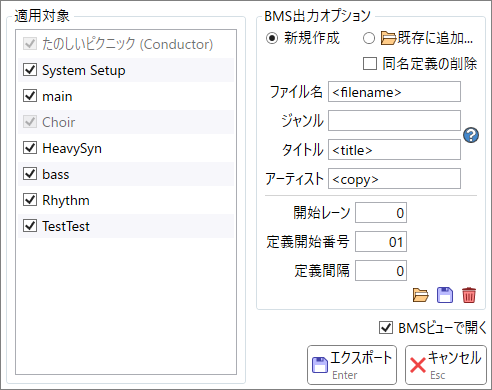
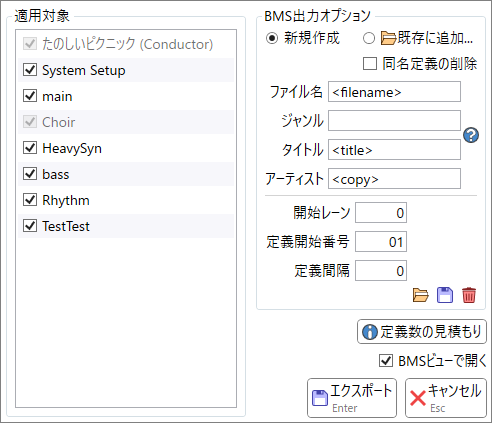
v0.7.32

diff --git a/docs/midi_bmsExport.html b/docs/midi_bmsExport.html
@@ -13,12 +13,23 @@
                 <p>
                     <a href="midi_pack.html">整理済みMIDIのデータ</a>と<a href="midi_slice.html">スライスされた音声データ</a>を使ってBMSファイルを作成する機能です。
                 </p>
+                <ul>
+                    <li>
+                        原則として、出力されるBMSの定義形式は<span class="script">ZZ</span>になります。総定義数が255以下でも<span class="script">FF</span>に変換されることはありません。
+                    </li>
+                    <li>
+                        総定義数が1296以上となる場合は<span class="script">zz</span>定義になり、その旨が警告として表示されます。
+                    </li>
+                    <li>
+                        総定義数が3844以上となる場合、超える分の定義は消失し、その旨が警告として表示されます。
+                    </li>
+                </ul>
             </div>
             <div class="stack">
                 <h2>説明</h2>
                 要素をクリックすると説明が表示されます。
                 <div class="image-map" src="img/midi_bmsExport.png" maps="
-                      5,  5,242,380, midi/bms_track.html, center;
+                      5,  5,242,412, midi/bms_track.html, center;
                     261, 26,220, 50, midi/bms_target.html;
                     261, 77,220, 29, midi/bms_filename.html;
                     261,106,200, 87, midi/bms_header.html;
@@ -28,9 +39,10 @@
                     409,283, 24, 24, midi/options_open.html;
                     433,283, 24, 24, midi/options_save.html;
                     457,283, 24, 24, midi/options_reset_score.html;
-                    373,315,118, 25, midi/bms_open.html;
-                    307,345, 90, 40, midi/bms_export.html;
-                    405,345, 82, 40, common/sub_cancel.html;">
+                    357,319,130, 25, midi/bms_estimate.html;
+                    373,348,118, 25, midi/bms_open.html;
+                    307,378, 90, 40, midi/bms_export.html;
+                    405,378, 82, 40, common/sub_cancel.html;">
                 </div>
             </div>
         </div>

diff --git a/docs/history.html b/docs/history.html
@@ -10,6 +10,38 @@
         <div class="content">
             <ul>
                 <li>
+                    <details id="0_7_32">
+                        <summary class="a-like">Version 0.7.32 (2025/09/07)</summary>
+                        <ul>
+                            <li>
+                                機能追加
+                                <ul>
+                                    <li>
+                                        <a href="midi_bmsExport.html">Midiモード/BMS出力</a>において、「定義数の見積もり」ボタンを追加しました。
+                                        <ul>
+                                            <li>
+                                                クリックすると、適用対象となっている各トラックの定義数と、その合計がメッセージボックスとして表示されます。
+                                            </li>
+                                        </ul>
+                                    </li>
+                                </ul>
+                            </li>
+                            <li>
+                                不具合修正
+                                <ul>
+                                    <li>
+                                        <a href="bms_defSort.html">BMSモード/定義の成立</a>で「名前順に並べ替え」を行う際、定義番号<span class="script">01</span>の定義が消失する不具合を修正しました。
+                                    </li>
+                                    <li>
+                                        <a href="browse.html">Browseモード</a>において、ファイルリストの範囲選択や全選択がうまく機能しない不具合を修正しました。
+                                    </li>
+                                </ul>
+                            </li>
+                        </ul>
+                        <br>
+                    </details>
+                </li>
+                <li>
                     <details id="0_7_31">
                         <summary class="a-like">Version 0.7.31 (2025/09/05)</summary>
                         <ul>

diff --git a/docs/bms_slice.html b/docs/bms_slice.html
@@ -45,9 +45,9 @@
                 <h2>説明</h2>
                 要素をクリックすると説明が表示されます。
                 <div class="image-map" src="img/bms_slice.png" maps="
-                      7,  1,128,514, bms/slice_lane_wave.html, center;
-                    135,  1, 48,514, bms/slice_lane_apply.html, center;
-                    183,  1, 48,514, bms/slice_lane_cut.html, center;
+                      7,  1,128,573, bms/slice_lane_wave.html, center;
+                    135,  1, 48,573, bms/slice_lane_apply.html, center;
+                    183,  1, 48,573, bms/slice_lane_cut.html, center;
                     259,  1, 69, 38, bms/slice_open.html;
                     328,  1,145, 38, bms/slice_save.html;
                     571,  1, 69, 38, bms/slice_close.html;

diff --git a/docs/midi/bms_estimate.html b/docs/midi/bms_estimate.html
@@ -1,0 +1,13 @@
+<h3><img src="img/icons/Info.png" class="icon"/>定義数の見積もり</h3>
+<div style="display: grid; grid-template-columns: auto auto;">
+    <img src="img/midi_bmsExport_estimate.png"/>
+    <ul>
+        <li>
+            クリックすると、適用対象となっている各トラックの定義数と、<br>
+            その合計がメッセージボックスとして表示されます。<br>
+        </li>
+        <li>
+            実際の最大定義番号は、これに「定義開始番号」を足したものになります。
+        </li>
+    </ul>
+</div>

diff --git a/docs/midi/bms_startLane.html b/docs/midi/bms_startLane.html
@@ -4,6 +4,6 @@
         <b>最初のトラック</b>のノーツが配置される<b>BGMレーン</b>の番号を指定します。
     </li>
     <li>
-        <b>左端</b>のBGMレーンが<span class="script">1</span>番です。
+        <b>左端</b>のBGMレーンが<span class="script">0</span>番です。
     </li>
 </ul>
